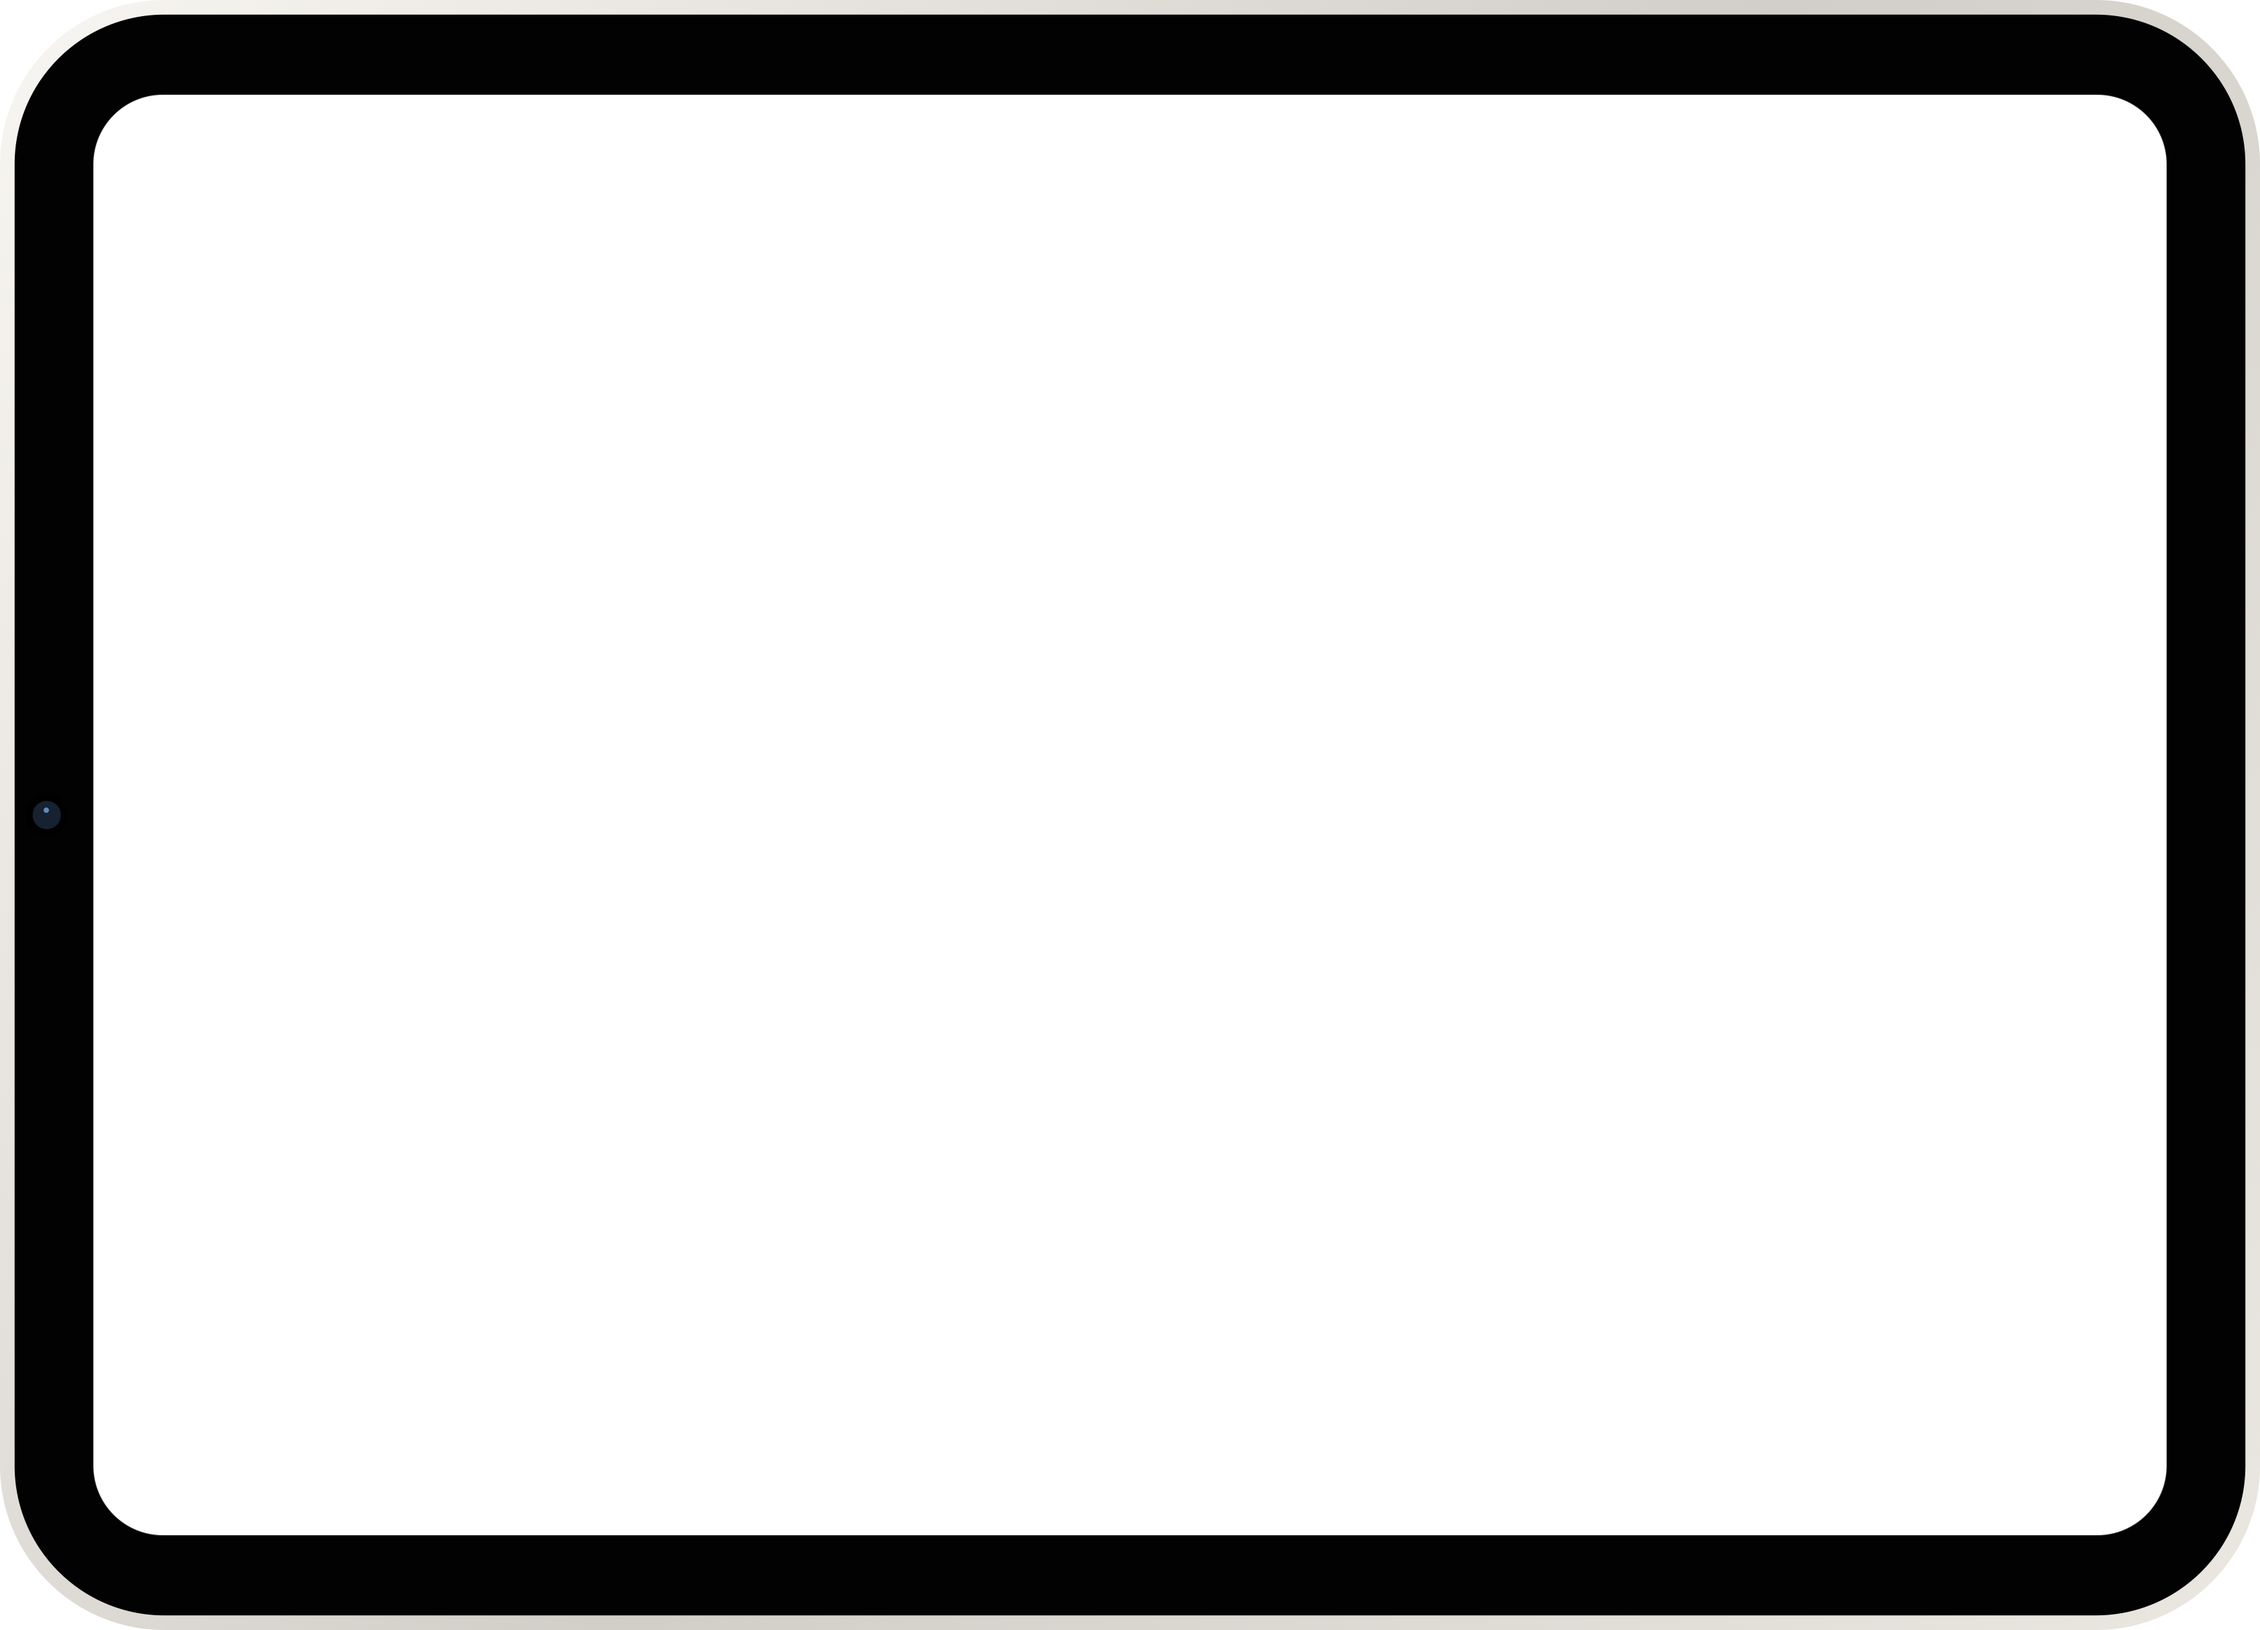
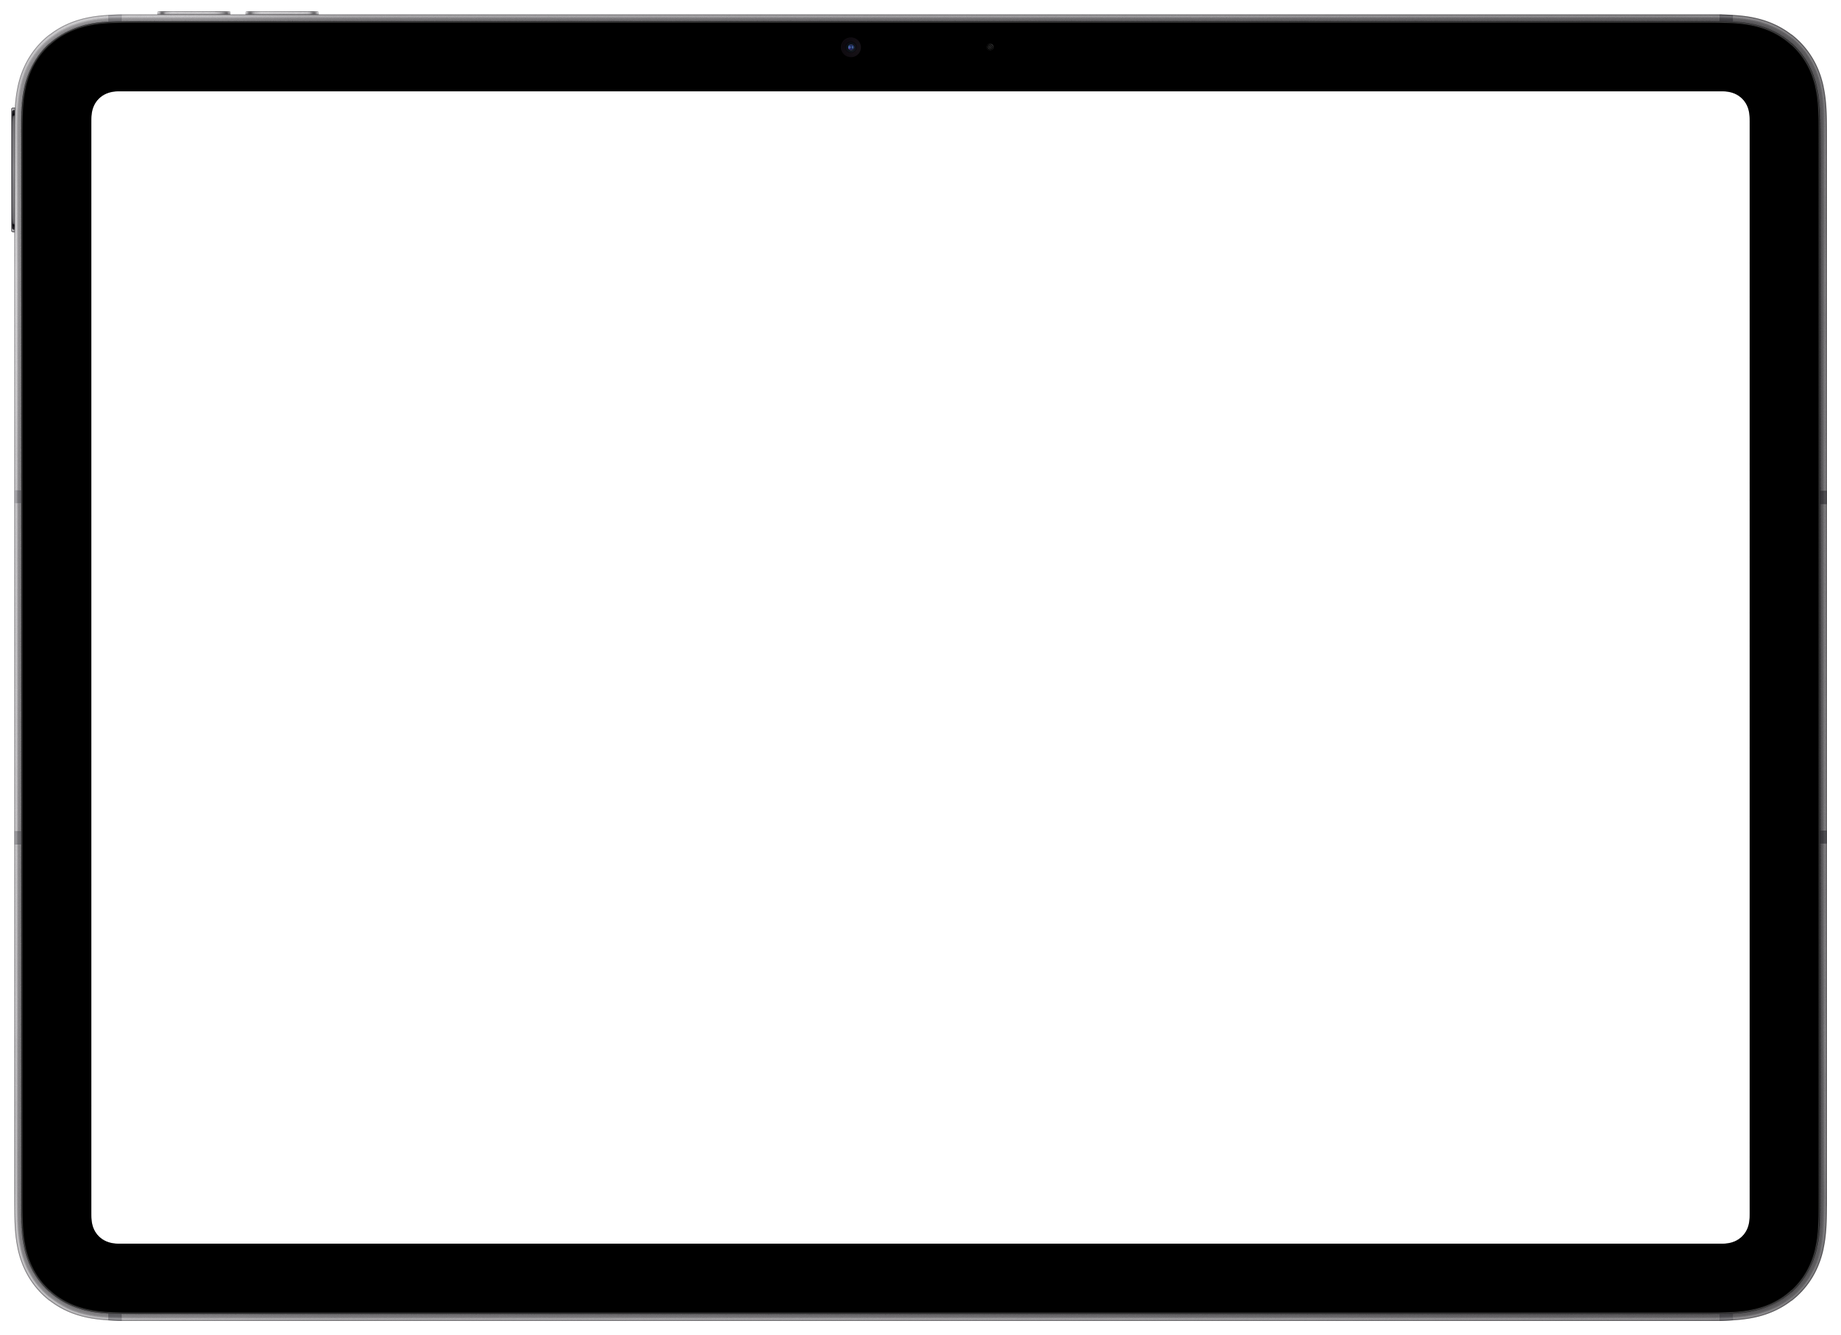
Use Apple’s iPad Air 11-inch bezel.

Changed region(s): [[0.0, 0.0, 1.0, 1.0]]

diff --git a/styles.css b/styles.css
@@ -130,14 +130,14 @@ h2 { font-size: clamp(28px, 4vw, 40px); margin-bottom: 28px; }
   position: relative;
   width: min(920px, 100%);
   margin: 48px auto 0;
-  aspect-ratio: 3216 / 2320;
+  aspect-ratio: 2620 / 1900;
 }
 .ipad-screen {
   position: absolute;
-  left: 4.135572%;
-  top: 5.818966%;
-  width: 91.728856%;
-  height: 88.362069%;
+  left: 4.961832%;
+  top: 6.842105%;
+  width: 90.076336%;
+  height: 86.315789%;
   background: #070708;
   overflow: hidden;
   z-index: 0;

diff --git a/index.html b/index.html
@@ -6,7 +6,7 @@
   <title>Virtuosity — See your piano playing</title>
   <meta name="description" content="Virtuosity is an iPad MIDI piano-roll practice tool for classical pianists. Watch phrasing, dynamics, and time as you play." />
   <link rel="icon" href="assets/icon-192.png?v=3" />
-  <link rel="stylesheet" href="styles.css?v=9" />
+  <link rel="stylesheet" href="styles.css?v=10" />
 </head>
 <body>
   <header class="nav">
